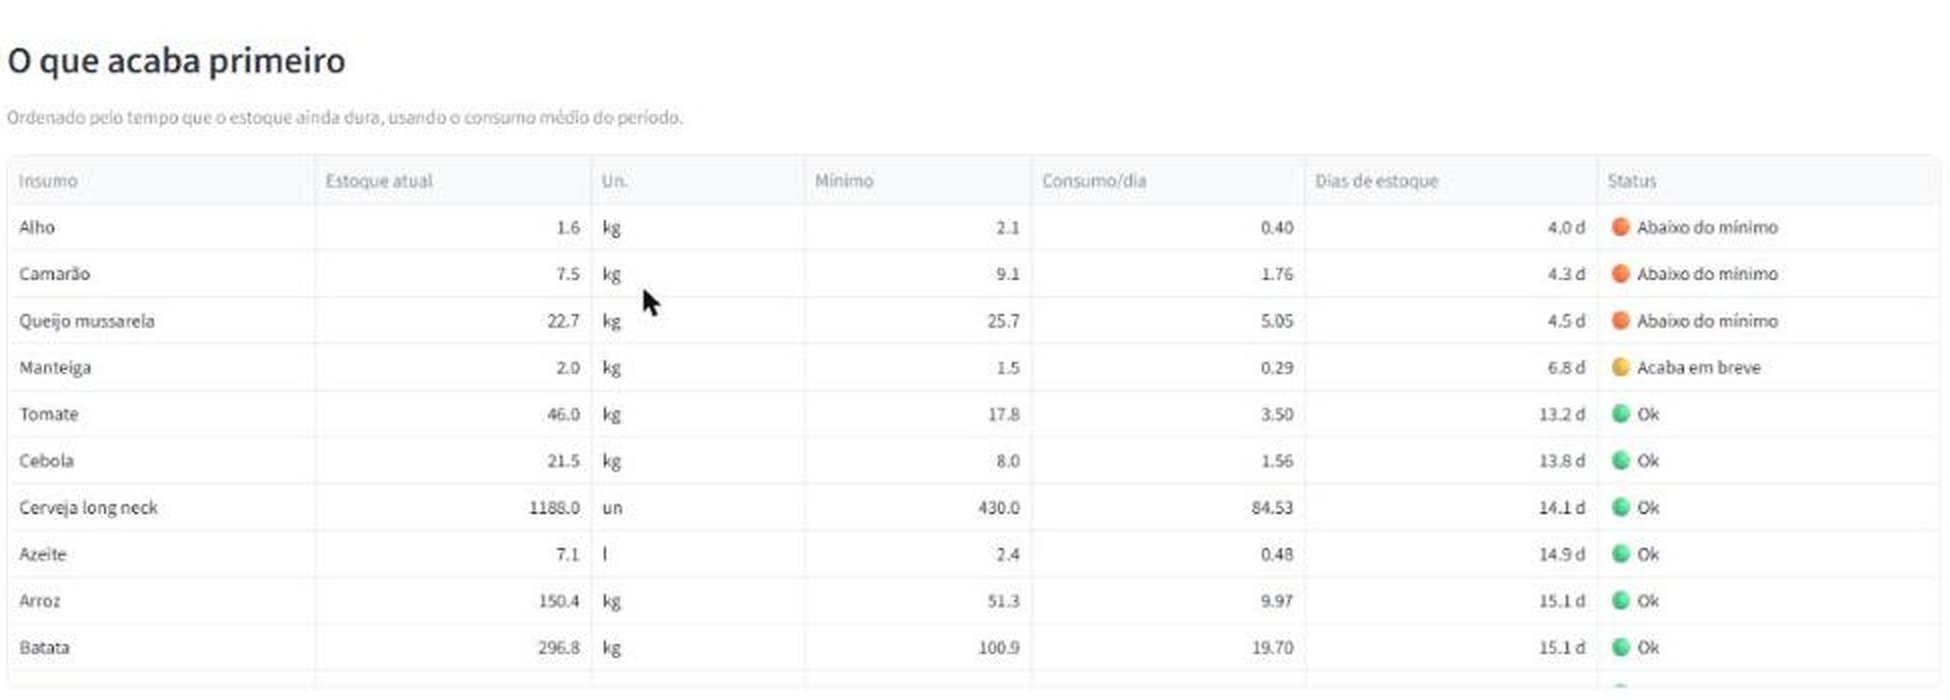
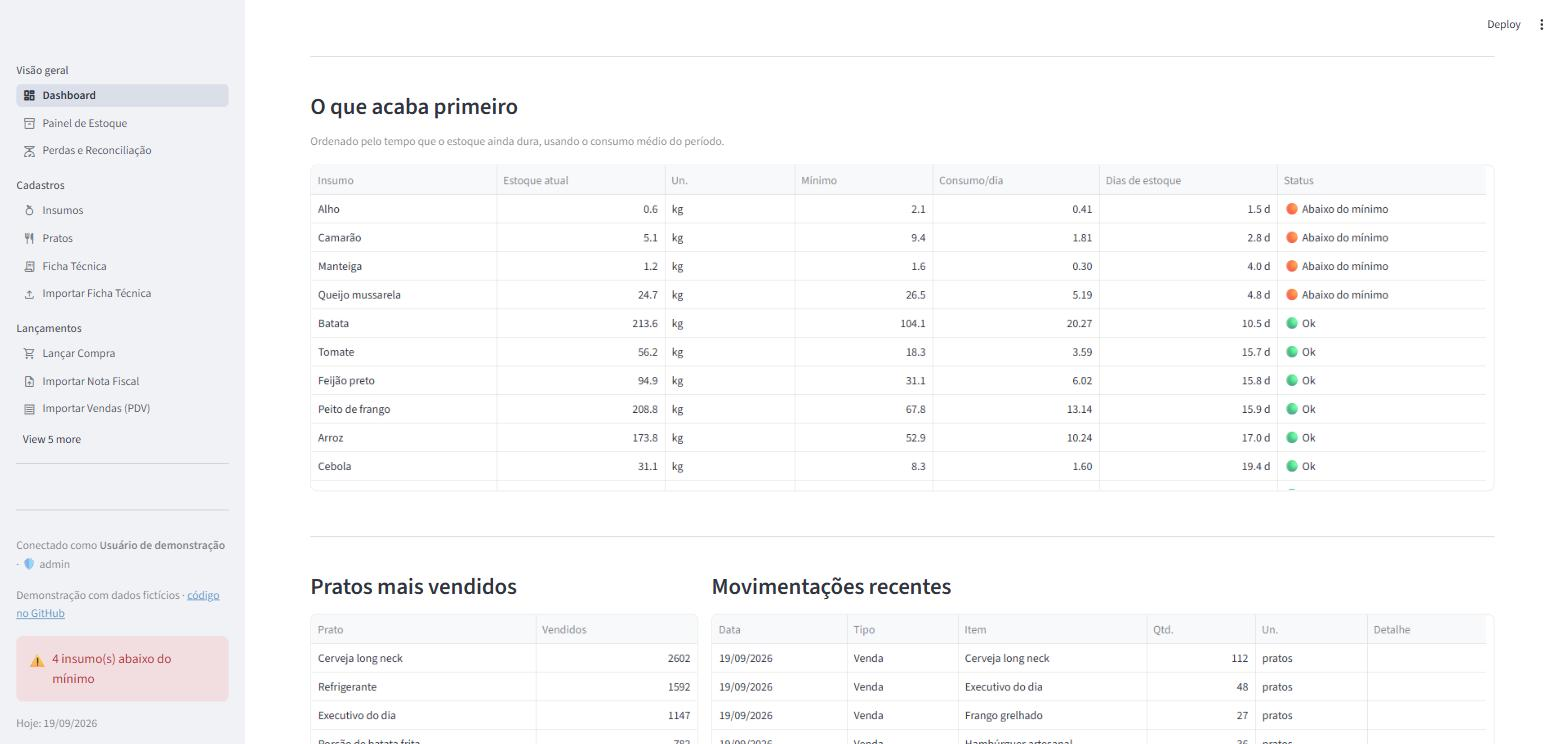
Atualiza os prints do README
Os anteriores eram de antes da reconciliação de perdas e da importação
de ficha técnica: a barra lateral deles não tinha as duas telas, e o
README passou a descrever coisa que a imagem não mostrava. Os novos saem
da demonstração pública, e entrou também um print da tela de perdas, que
até agora só existia como texto.

diff --git a/README.md b/README.md
@@ -23,8 +23,8 @@ dados são os do restaurante.
 
 ![Dashboard do sistema](docs/dashboard.png)
 
-> As telas deste README usam o banco de demonstração gerado por
-> `seed_demo.py`, com dados fictícios.
+> As telas deste README são da demonstração pública, com os dados
+> fictícios gerados pelo `seed_demo.py`.
 
 ## O problema
 
@@ -122,6 +122,8 @@ não olhar.
   percentual do que estava disponível
 
 ![Tela "O que acaba primeiro"](docs/o-que-acaba-primeiro.png)
+
+![Tela de Perdas e Reconciliação](docs/perdas.png)
 
 ## Acesso e usuários
 
